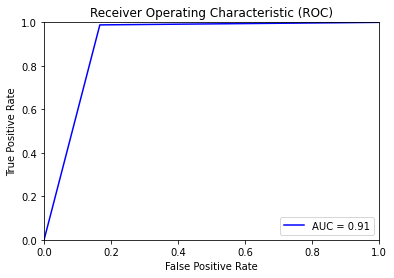
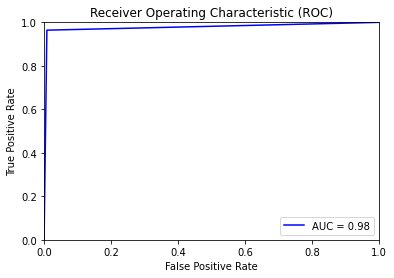
new results & README update

diff --git a/README.md b/README.md
@@ -102,12 +102,12 @@ ROC 커브를 그려주는 메서드입니다. `save_png=True`로 놓으면 ROC 
 plot_roc_curve(y_target, y_predicted, guideline=False)
 ```
 
-![wo_guideline](ROC_Curves/roc_curve_test3.png)
+![wo_guideline](ROC_Curves/roc_curve_test1.png)
 
 ```python
 plot_roc_curve(y_target, y_predicted, guideline=True)
 ```
 
-![w_guideline](ROC_Curves/roc_curve_test4.png)
+![w_guideline](ROC_Curves/roc_curve_test2.png)
 
 
